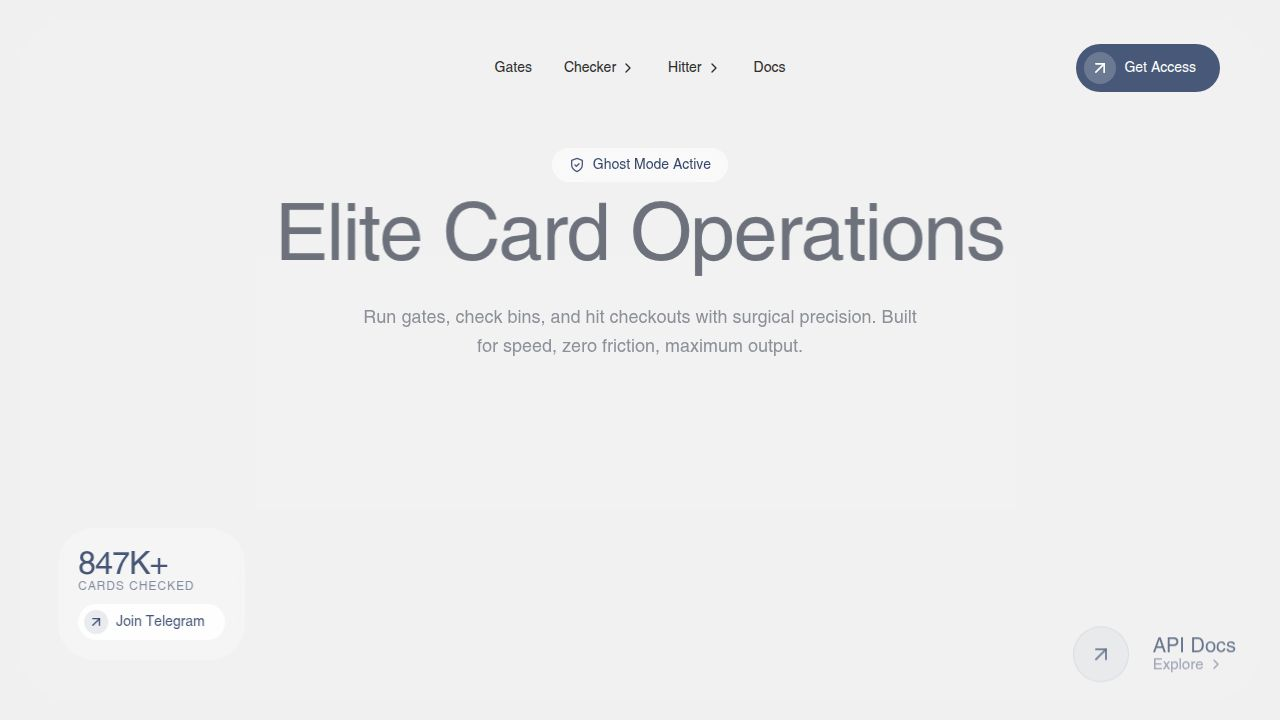
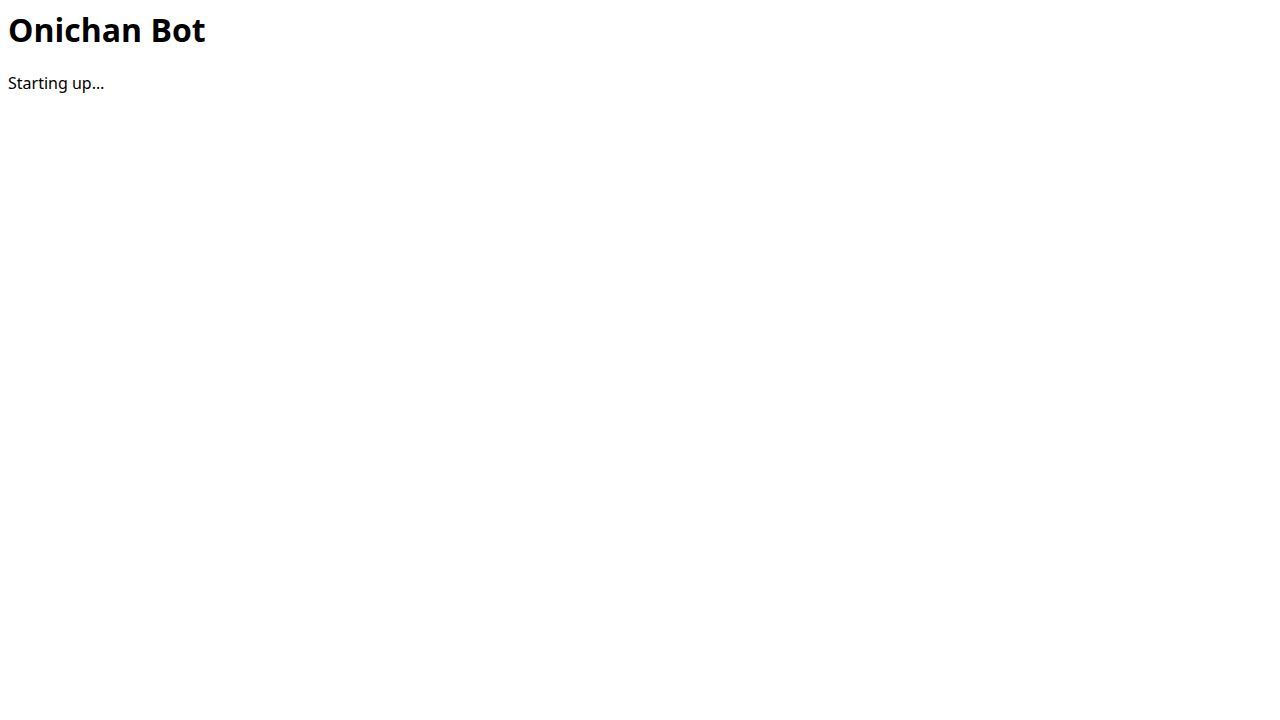
Allow any admin to access live casino settings page
Change the access decorator for the live casino settings route from @user_required to @user_required in src/lucko_routes.py.

Replit-Commit-Author: Agent
Replit-Commit-Session-Id: c68c6eb0-7c71-463d-aebc-0a031fc11543
Replit-Commit-Checkpoint-Type: full_checkpoint
Replit-Commit-Event-Id: 29c2d0d0-ee0a-4e72-b1db-dfbdefff93dc
Replit-Commit-Screenshot-Url: https://storage.googleapis.com/screenshot-production-us-central1/6cb67840-8f90-4a25-8429-c01871a517a5/c68c6eb0-7c71-463d-aebc-0a031fc11543/tjzCCsk
Replit-Helium-Checkpoint-Created: true

diff --git a/src/lucko_routes.py b/src/lucko_routes.py
@@ -744,7 +744,7 @@ def register_lucko_routes(app, user_required, owner_required,
     # ── Admin: live casino settings ───────────────────────────────────────────
 
     @app.route('/admin/casino/live', methods=['GET', 'POST'])
-    @owner_required
+    @admin_required
     def admin_casino_live():
         from modules.database import _execute_with_retry as _q
 